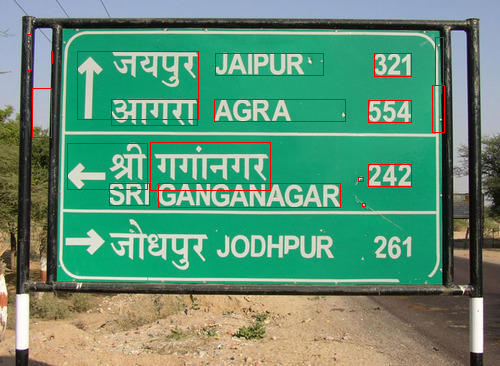
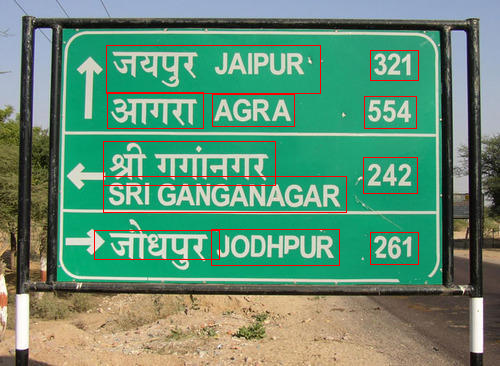
Use easyOCR to extract text from sign boards

diff --git a/python/OCR/ocr_sign_boards/test_bills.py b/python/OCR/ocr_sign_boards/test_bills.py
@@ -1,10 +1,38 @@
 import aiview_ocr
 import easyocr
-reader = easyocr.Reader(['en', 'hi']) # this needs to run only once to load the model into memory
-result = reader.readtext('roof-500x500.jpg')
+import cv2
 
-print(result)
-for _ in result:
+print(help(aiview_ocr.OCR))
 
-    print(_[1])
+
+languages = ['en', 'hi']
+path = "roof-500x500.jpg"
+ft = ""
+
+img = cv2.imread(path)
+reader = easyocr.Reader(
+    languages
+)  # slow for the first time (also depends upon CPU/GPU)
+result = reader.readtext(path)
+
+for text in result:
+
+    # extracting the coordinates to highlight the text
+    coords_lower = text[0][:2]
+    coords_upper = text[0][2:4]
+
+    coords_lower.sort(key=lambda x: x[0])
+    pt1 = [int(x) for x in coords_upper[-1]]
+
+    coords_lower.sort(key=lambda x: x[0])
+    pt2 = [int(x) for x in coords_lower[-1]]
+
+    cv2.rectangle(img, pt1, pt2, (0, 0, 255), 1)
+
+    ft = ft + " " + text[-2]
+
+cv2.imwrite("OCR.png", img)
+
+print(ft)
+
 
